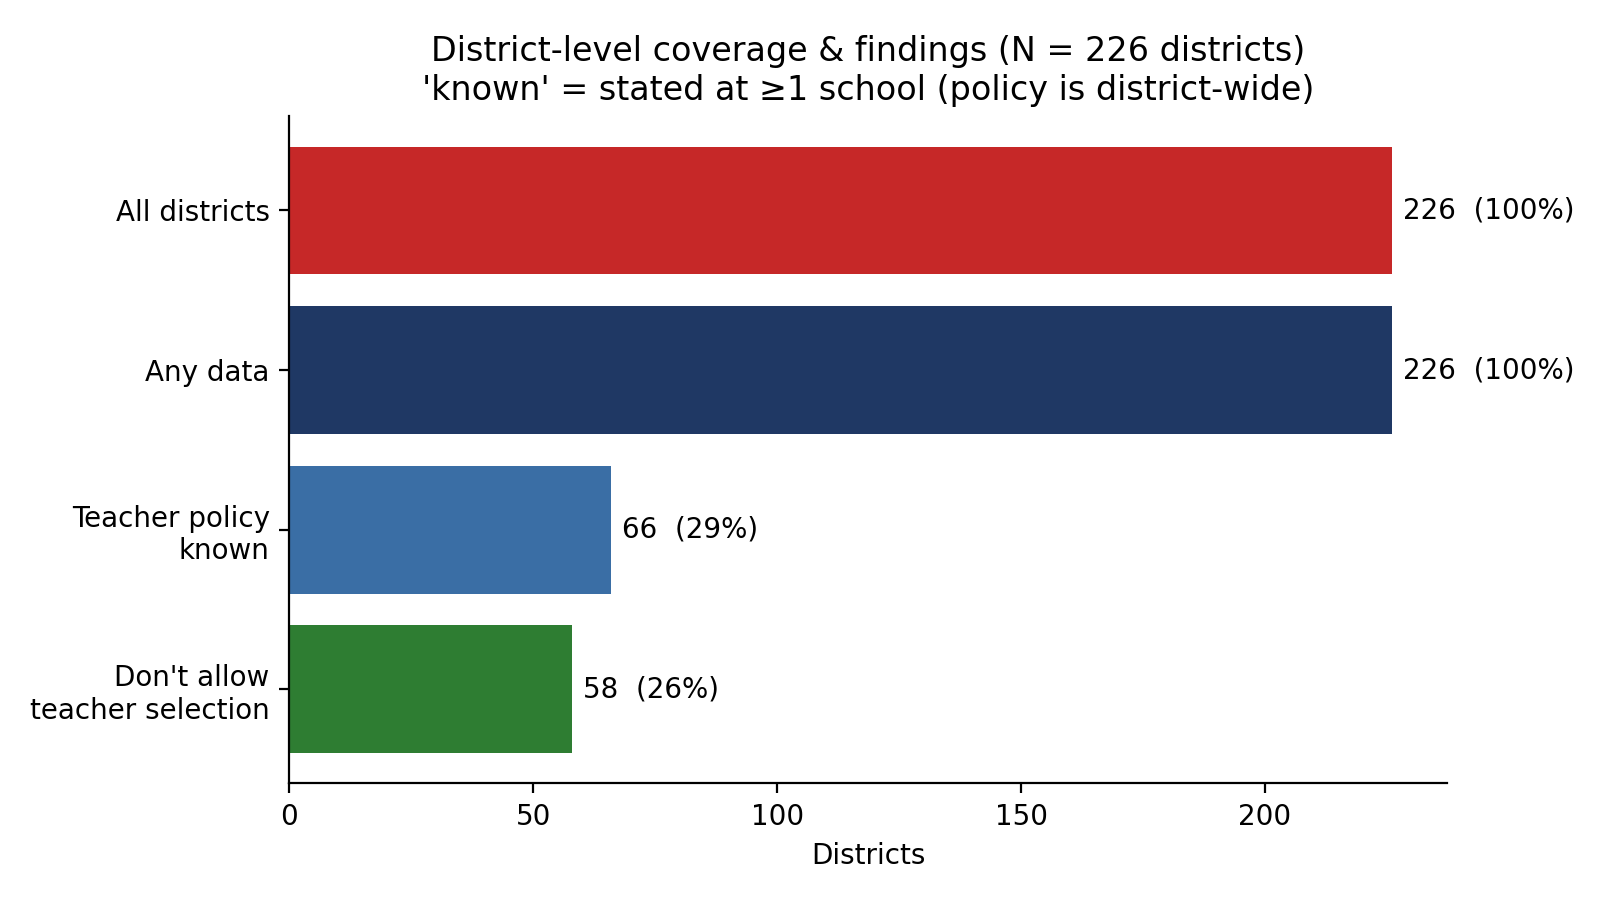
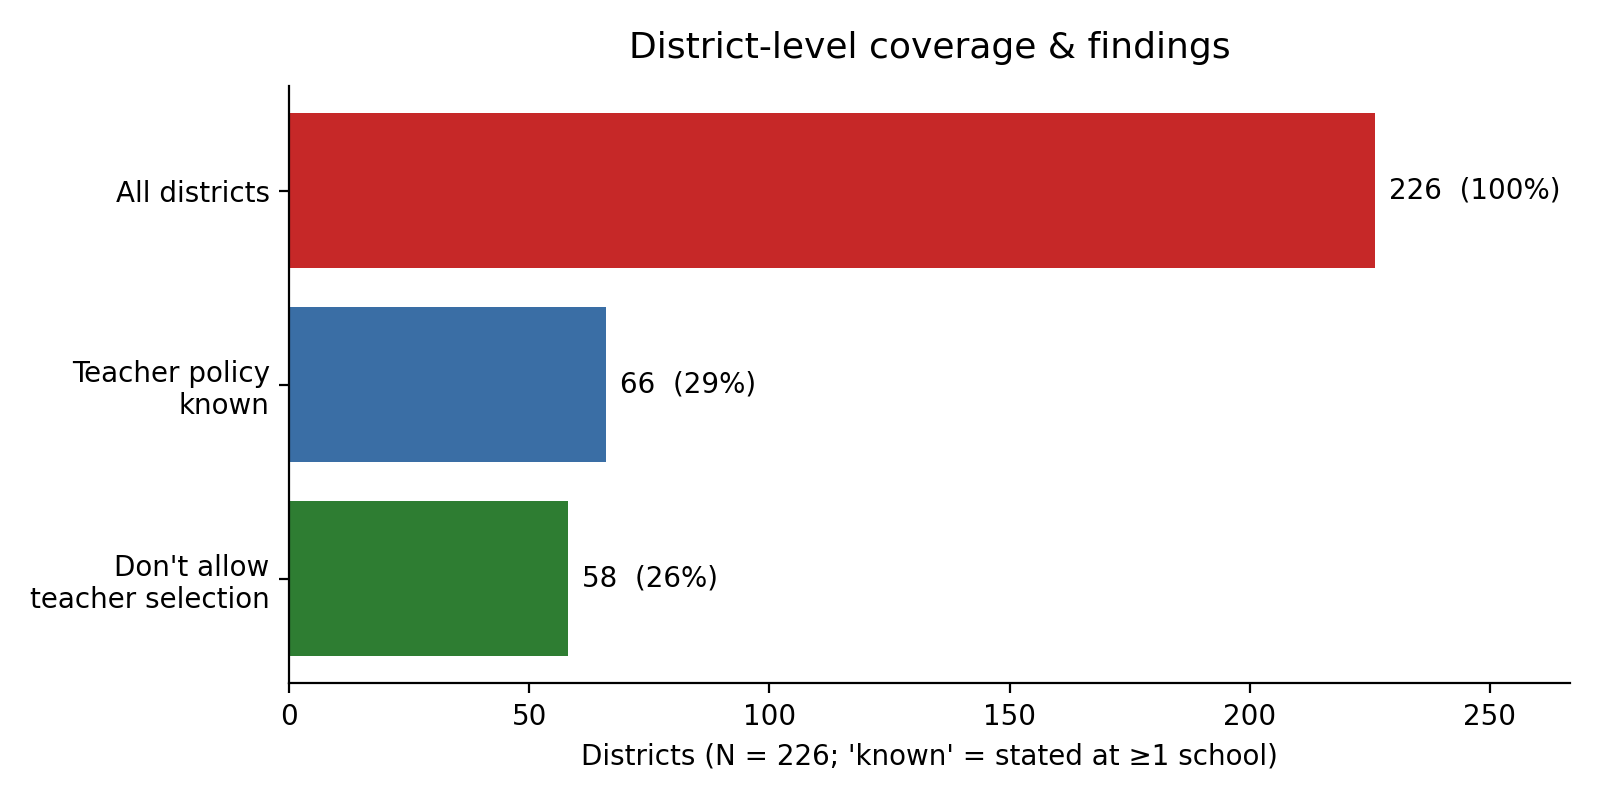
updates to make_charts.py

diff --git a/make_charts.py b/make_charts.py
@@ -1,56 +1,66 @@
 #!/usr/bin/env python3
 """
 Presentation charts from coded_schools.csv.
-  pip install pandas matplotlib
-  python make_charts.py coded_schools.csv
+  python3 make_charts.py coded_schools.csv     (pandas/matplotlib required)
 
 Writes:
-  fig_district_funnel.png     district-level coverage & findings (share of districts)
+  fig_district_funnel.png     district-level coverage & findings
   fig_teacher_request.png     teacher-request policy (school level)
   fig_coverage.png            data coverage by variable
   fig_disallowed_reasons.png  reasons schools explicitly disallow changes
 
-All framed descriptively ("of schools/districts where policy was stated"), not as
-claims about all Texas schools. District rollup uses the ANY-SCHOOL rule: a district
-'knows' a variable if >=1 of its schools stated it (teacher-request policy is
-district-wide, so one school's stated policy identifies the district).
+Notes:
+- "Use of Scheduling Software" is excluded from charts: every school that stated it
+  said Yes (no variation), so it's a talking-point fact, not a chartable variable.
+  The script prints that fact instead.
+- District rollup uses the ANY-SCHOOL rule: a district 'knows' a variable if >=1 of
+  its schools stated it (teacher-request policy is district-wide).
+- Framed descriptively ("of schools/districts where policy was stated").
 """
-import sys, csv, collections
+import sys, csv, collections, textwrap
 import matplotlib; matplotlib.use("Agg")
 import matplotlib.pyplot as plt
 
 PATH = sys.argv[1] if len(sys.argv) > 1 else "coded_schools.csv"
 rows = list(csv.DictReader(open(PATH, encoding="utf-8")))
 N = len(rows)
-META = {"District","School","source_files","model","coded_date","_pathkey","Notes","SIS/Scheduling Software"}
+# excluded from coverage/has-data: identifiers, provenance, empty-by-design SIS,
+# and the constant "Use of Scheduling Software"
+META = {"District","School","source_files","model","coded_date","_pathkey","Notes",
+        "SIS/Scheduling Software","Use of Scheduling Software"}
 def v(r, c): return (r.get(c, "") or "").strip()
 varcols = [c for c in rows[0].keys() if c not in META]
 
-# ============ 1. DISTRICT-LEVEL SHARES (funnel) ============
+def short(lbl, n=30):
+    lbl = lbl.replace("Reason - ", "").replace("Disallowed Reason - ", "")
+    return lbl if len(lbl) <= n else lbl[:n-1] + "\u2026"
+
+# ---- software fact (printed, not charted) ----
+sw = collections.Counter(v(r,"Use of Scheduling Software") for r in rows)
+sw_yes = sw.get("Y",0); sw_no = sw.get("N",0); sw_stated = sw_yes + sw_no
+print(f"Scheduling software: of {sw_stated} schools that stated it, {sw_yes} use it, {sw_no} do not "
+      f"({'100% Yes, no exceptions' if sw_no==0 and sw_stated else ''})")
+
+# ============ 1. DISTRICT FUNNEL (Any-data stage dropped) ============
 byd = collections.defaultdict(list)
 for r in rows: byd[r["District"]].append(r)
 D = len(byd)
 def any_school(drows, test): return any(test(r) for r in drows)
-def has_data(r): return any(v(r,c) and v(r,c).lower() != "not stated" for c in varcols)
+tr_known = sum(1 for d in byd.values() if any_school(d, lambda r: v(r,"Teacher Request Allowed") in ("Y","N")))
+tr_no    = sum(1 for d in byd.values() if any_school(d, lambda r: v(r,"Teacher Request Allowed") == "N"))
+arena    = sum(1 for d in byd.values() if any_school(d, lambda r: v(r,"Named Arena Selection Process").upper() == "Y"))
+print(f"Districts: {D} | teacher-request known: {tr_known} ({round(100*tr_known/D)}%) | "
+      f"don't allow: {tr_no} ({round(100*tr_no/D)}% of all, {round(100*tr_no/tr_known) if tr_known else 0}% of known) | arena: {arena}")
 
-have_data = sum(1 for d in byd.values() if any_school(d, has_data))
-tr_known  = sum(1 for d in byd.values() if any_school(d, lambda r: v(r,"Teacher Request Allowed") in ("Y","N")))
-tr_no     = sum(1 for d in byd.values() if any_school(d, lambda r: v(r,"Teacher Request Allowed") == "N"))
-arena     = sum(1 for d in byd.values() if any_school(d, lambda r: v(r,"Named Arena Selection Process").upper() == "Y"))
-
-print(f"Districts: {D}")
-print(f"  any coded data:            {have_data} ({round(100*have_data/D)}%)")
-print(f"  teacher-request known:     {tr_known} ({round(100*tr_known/D)}%)")
-print(f"  don't allow teacher sel.:  {tr_no} ({round(100*tr_no/D)}% of all; {round(100*tr_no/tr_known)}% of known)")
-print(f"  arena/self-select:         {arena} ({round(100*arena/D)}%)")
-
-stages = ["All districts","Any data","Teacher policy\nknown","Don't allow\nteacher selection"]
-vals   = [D, have_data, tr_known, tr_no]
-fig, ax = plt.subplots(figsize=(8, 4.5))
-bars = ax.barh(stages[::-1], vals[::-1], color=["#c62828","#1f3864","#3a6ea5","#2e7d32"][::-1])
-ax.bar_label(bars, labels=[f"{x}  ({round(100*x/D)}%)" for x in vals[::-1]], padding=4)
-ax.set_title(f"District-level coverage & findings (N = {D} districts)\n'known' = stated at \u22651 school (policy is district-wide)")
-ax.set_xlabel("Districts"); ax.spines[['top','right']].set_visible(False)
+stages = ["All districts", "Teacher policy\nknown", "Don't allow\nteacher selection"]
+vals   = [D, tr_known, tr_no]
+fig, ax = plt.subplots(figsize=(8, 4))
+bars = ax.barh(stages[::-1], vals[::-1], color=["#c62828","#3a6ea5","#2e7d32"][::-1])
+ax.bar_label(bars, labels=[f"{x}  ({round(100*x/D)}%)" for x in vals[::-1]], padding=5)
+ax.set_xlim(0, D*1.18)
+ax.set_title("District-level coverage & findings", fontsize=13, pad=10)
+ax.set_xlabel(f"Districts (N = {D}; 'known' = stated at \u22651 school)")
+ax.spines[['top','right']].set_visible(False)
 plt.tight_layout(); plt.savefig("fig_district_funnel.png", dpi=200); plt.close()
 
 # ============ 2. TEACHER-REQUEST (school level) ============
@@ -58,36 +68,40 @@ tr = collections.Counter(v(r,"Teacher Request Allowed") or "blank" for r in rows
 order = ["N","Y","Not stated","blank"]
 lab = {"N":"No \u2014 not allowed","Y":"Yes \u2014 allowed","Not stated":"Not stated","blank":"No data"}
 counts = [tr.get(k,0) for k in order]
-fig, ax = plt.subplots(figsize=(7,4))
+fig, ax = plt.subplots(figsize=(7,4.2))
 bars = ax.bar([lab[k] for k in order], counts, color=["#2e7d32","#c62828","#bdbdbd","#e0e0e0"])
 ax.bar_label(bars, padding=3)
+ax.set_ylim(0, max(counts)*1.15)
 stated = tr.get("N",0)+tr.get("Y",0)
-ax.set_title(f"Can students/parents request a specific teacher? (school level)\n(of {stated} schools where policy stated: {tr.get('N',0)} no, {tr.get('Y',0)} yes)")
+ax.set_title("Can students/parents request a specific teacher?", fontsize=13, pad=10)
+ax.set_xlabel(f"of {stated} schools where policy was stated: {tr.get('N',0)} no, {tr.get('Y',0)} yes")
 ax.set_ylabel("Schools"); ax.spines[['top','right']].set_visible(False)
 plt.tight_layout(); plt.savefig("fig_teacher_request.png", dpi=200); plt.close()
 
 # ============ 3. COVERAGE ============
 fill = {c: sum(1 for r in rows if v(r,c) and v(r,c).lower()!="not stated") for c in varcols}
-top = sorted(fill.items(), key=lambda x: x[1], reverse=True)[:15]
-names = [c.replace("Reason - ","").replace("Disallowed Reason - ","(disallow) ")[:42] for c,_ in top]
-tv = [x for _,x in top]
-fig, ax = plt.subplots(figsize=(8,6))
+top = sorted(fill.items(), key=lambda x: x[1], reverse=True)[:14]
+names = [short(c, 34) for c,_ in top]; tv = [x for _,x in top]
+fig, ax = plt.subplots(figsize=(9,6))
 bars = ax.barh(names[::-1], tv[::-1], color="#1f3864")
 ax.bar_label(bars, labels=[f"{x} ({round(100*x/N)}%)" for x in tv[::-1]], padding=3, fontsize=8)
-ax.set_title(f"Data coverage by variable (of {N} schools) \u2014 most-populated fields")
+ax.set_xlim(0, N*1.15)
+ax.set_title(f"Data coverage by variable (of {N} schools)", fontsize=13, pad=10)
 ax.set_xlabel("Schools with a value"); ax.spines[['top','right']].set_visible(False)
 plt.tight_layout(); plt.savefig("fig_coverage.png", dpi=200); plt.close()
 
 # ============ 4. DISALLOWED REASONS ============
 dis = [c for c in rows[0].keys() if c.startswith("Disallowed Reason")]
-freq = {c.replace("Disallowed Reason - ",""): sum(1 for r in rows if v(r,c).upper()=="Y") for c in dis}
+freq = {short(c,30): sum(1 for r in rows if v(r,c).upper()=="Y") for c in dis}
 freq = {k:x for k,x in sorted(freq.items(), key=lambda i:i[1], reverse=True) if x>0}
 if freq:
-    fig, ax = plt.subplots(figsize=(8,5))
+    fig, ax = plt.subplots(figsize=(8.5,5))
     bars = ax.barh(list(freq.keys())[::-1], list(freq.values())[::-1], color="#c62828")
-    ax.bar_label(bars, padding=3, fontsize=8)
-    ax.set_title("Reasons schools explicitly DISALLOW a schedule change\n(count of schools stating each)")
-    ax.set_xlabel("Schools"); ax.spines[['top','right']].set_visible(False)
+    ax.bar_label(bars, padding=3, fontsize=9)
+    ax.set_xlim(0, max(freq.values())*1.12)
+    ax.set_title("Reasons schools explicitly disallow a change", fontsize=13, pad=10)
+    ax.set_xlabel("Schools stating each"); ax.spines[['top','right']].set_visible(False)
     plt.tight_layout(); plt.savefig("fig_disallowed_reasons.png", dpi=200); plt.close()
 
-print("\nWrote: fig_district_funnel.png, fig_teacher_request.png, fig_coverage.png" + (", fig_disallowed_reasons.png" if freq else ""))
+print("\nWrote: fig_district_funnel.png, fig_teacher_request.png, fig_coverage.png" +
+      (", fig_disallowed_reasons.png" if freq else ""))
